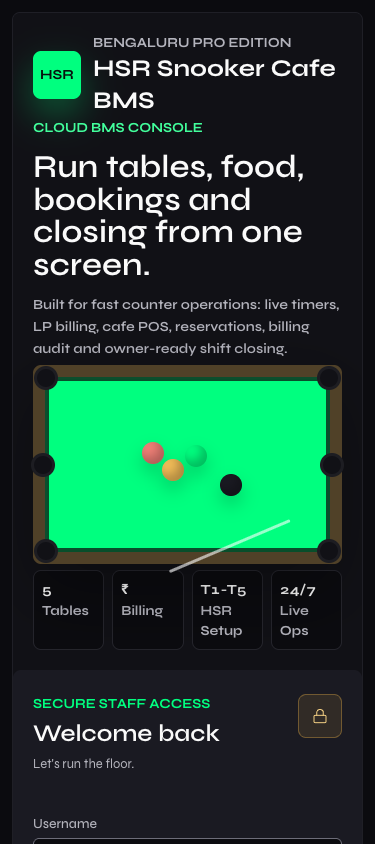
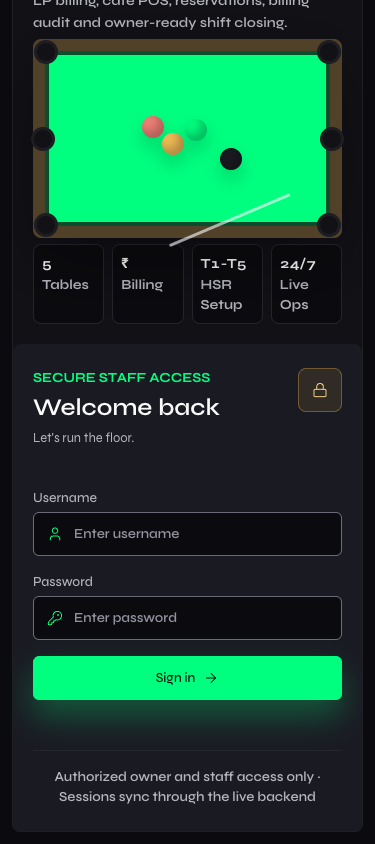
Verify placeholder glyph clearance with rendered pixel checks

diff --git a/frontend/src/presentation.css b/frontend/src/presentation.css
@@ -79,7 +79,7 @@ h3 { font-size: var(--text-lg); line-height: var(--leading-lg); font-weight: 500
   transition: border-color 80ms var(--ease-out), box-shadow 80ms var(--ease-out); max-width: 100%;
 }
 .ui-input:not([type="checkbox"]):not([type="radio"]), .ui-select { height: 36px; padding-block: 0; }
-.login-input-wrap .ui-input { padding-inline-start: var(--space-10); }
+.login-input-wrap .ui-input { padding-left: var(--space-10); }
 .ui-textarea { resize: vertical; min-height: 80px; }
 .ui-input::placeholder, .ui-textarea::placeholder { color: var(--text-muted); opacity: 1; }
 .ui-input:focus, .ui-select:focus, .ui-textarea:focus { border-color: var(--border-focus) !important; box-shadow: var(--focus); outline: none; }

diff --git a/docs/presentation-polish/README.md b/docs/presentation-polish/README.md
@@ -104,10 +104,12 @@ production credential entry or mutation was performed.
 
 Final pixel inspection caught login prefix icons overlapping placeholder text
 after shared input padding took precedence. The explicit leading-icon inset
-now uses the shared 40px spacing token. [Correction comparison](input-prefix-fix/index.html)
+now uses the shared 40px spacing token with physical left padding. [Correction comparison](input-prefix-fix/index.html)
 preserves the before-production pixels and corrected light/dark screenshots.
-The new regression assertion measures 10px clearance in all six viewport/theme
-samples. Fonts, colors, button heights and contrast remain unchanged.
+The regression assertion measures 10px clearance and actual placeholder ink
+beginning at 42-43px inside each field in all six viewport/theme samples.
+Geometry alone was insufficient, so placeholder paint is checked separately.
+Fonts, colors, button heights and contrast remain unchanged.
 
 ## Reproduce
 
